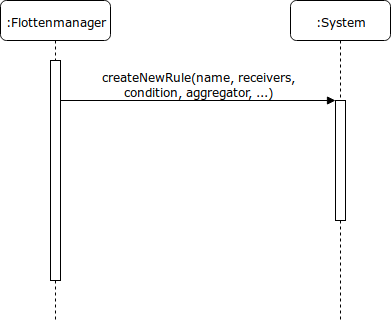
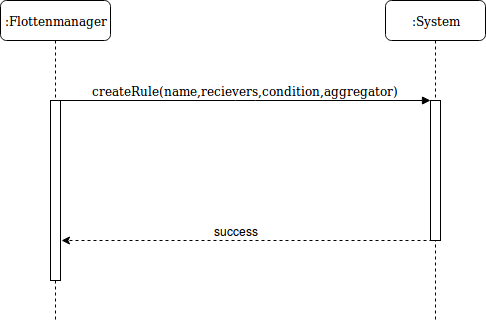
#60 ssd update (#92)
* update ssds for rules

* update contracts

* Implemented feedback.

diff --git a/doc/systemsequenzdiagramme/blatt4-1.md b/doc/systemsequenzdiagramme/blatt4-1.md
@@ -6,7 +6,7 @@
 
 #### Operation
 
-createNewRule(name, recievers, condition, aggregator, ...)
+createNewRule(name, recievers, condition, aggregator)
 
 #### Beschreibung
 
@@ -41,7 +41,7 @@ Notification-text-template
 
 #### Operation
 
-updateRule(name, recievers, condition, aggregator, ...)
+updateRule(name, recievers, condition, aggregator)
 
 #### Beschreibung
 
@@ -54,6 +54,7 @@ Es existieren Regeln, die modifiziert werden können.
 #### Nachbedingung
 
 Die Regel ist in ihrer neuen Definition aktiv, die alte Definition ist inaktiv.
+Die Regel wurde entsprechend der Änderungen gespreichert. Die veralteten Einstellungen wurden verworfen.
 
 #### Ausnahme
 
@@ -88,7 +89,7 @@ Der Flottenmanager ist am System authentifiziert.
 
 #### Nachbedingung
 
-Die Regel kein Teil der noch existierenden Regeln.
+Die Regelmenge wurde um die gelöschten reduziert.
 
 #### Ausnahmen
 
@@ -118,7 +119,7 @@ Der Flottenmanager ist im System authentifiziert.
 
 #### Nachbedingung
 
-Der Systemzustand hat sich nicht verändert.
+Der Systemzustand wurde nicht verändert.
 
 #### Ausnahme
 
